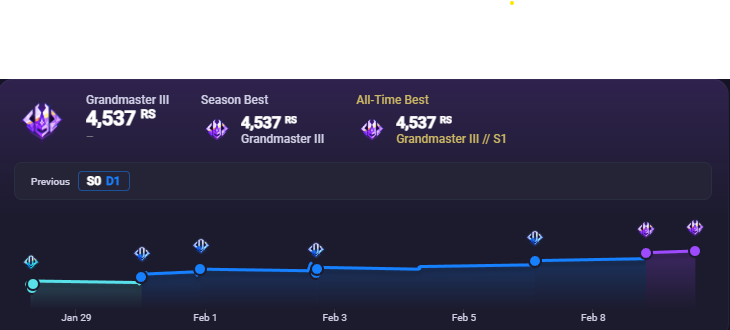
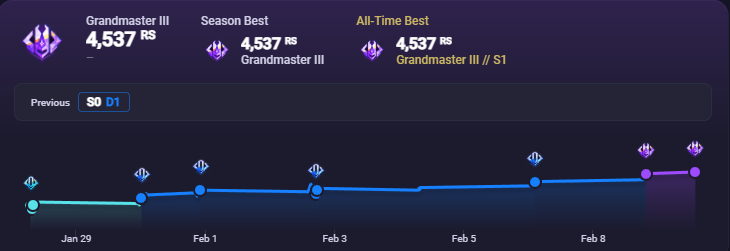
finished css for about me page

diff --git a/aboutme.html b/aboutme.html
@@ -26,25 +26,27 @@
     <p>I've been climbing for around a year now and can do most V4s and currently I'm working my way up to V5s. Below are two videos of my recent V5 climbs.</p>
     <div class="climbing-cards">
       <div class="climbing-card">
-        <video width="250" height="600" controls>
+        <video controls>
           <source src="extras/20241116_160828.mp4" type="video/mp4">
         </video>
+        <p class="climbing-card-label">Black V5</p>
       </div>
       <div class="climbing-card"> 
-        <video width="250" height="600" controls>
+        <video controls>
           <source src="extras/20241116_163129.mp4" type="video/mp4">
         </video>
+        <p class="climbing-card-label"> Purple V5</p>
       </div>
     </div>
   </div>
   <div class="hobbies">
     <p>I also like to play games with my friends, mostly multiplayer and competitive games. I've been into Marvel Rivals and Rocket League recently and have achieved Grandmaster rank in Marvel Rivals and Champion 2 in Rocket League.</p>
-    <img src="extras/gm-rank.png" alt="Grandmaster Rank in Marvel Rivals">
-    <img src="extras/rl-rank.png" alt="Champion 2 Rank in Rocket League">
+    <img class="ranked-img" src="extras/gm-rank.png" alt="Grandmaster Rank in Marvel Rivals">
+    <img class="ranked-img" src="extras/rl-rank.png" alt="Champion 2 Rank in Rocket League">
   </div>
   <div class="hobbies">
     <p>Another thing I like to do is watch anime and read manga, which I spent a fairly long time doing. Watched over 300 anime so far. Here are a few of my favorites</p>
-    <img src="extras/top-10-anime.png" alt="List of top 10 anime">
+    <img id="anime-table" src="extras/top-10-anime.png" alt="List of top 10 anime">
   </div>
 </body>
 </html>

diff --git a/css/style.css b/css/style.css
@@ -123,3 +123,41 @@ h3.home {
   width: 90%;
   max-width: 800px;
 }
+
+.climbing-cards {
+  display: flex;
+  flex-wrap: wrap;
+  gap: 20px;
+  justify-content: center;
+}
+
+.climbing-card {
+  border: 1px solid #654321;
+  border-radius: 10px;
+  padding: 10px;
+  text-align: center;
+  width: 250px;
+}
+
+.climbing-card-label {
+  font-weight: bold;
+  color: #654321;
+  margin-top: 10px;
+}
+
+.climbing-card video {
+  width: 100%;
+  height: auto;
+  border-radius: 10px;
+}
+
+.hobbies-header h2 {
+  color: #FFAB76;
+}
+
+.hobbies img {
+  width: 100%;
+  height: auto;
+  border-radius: 10px;
+}
+
